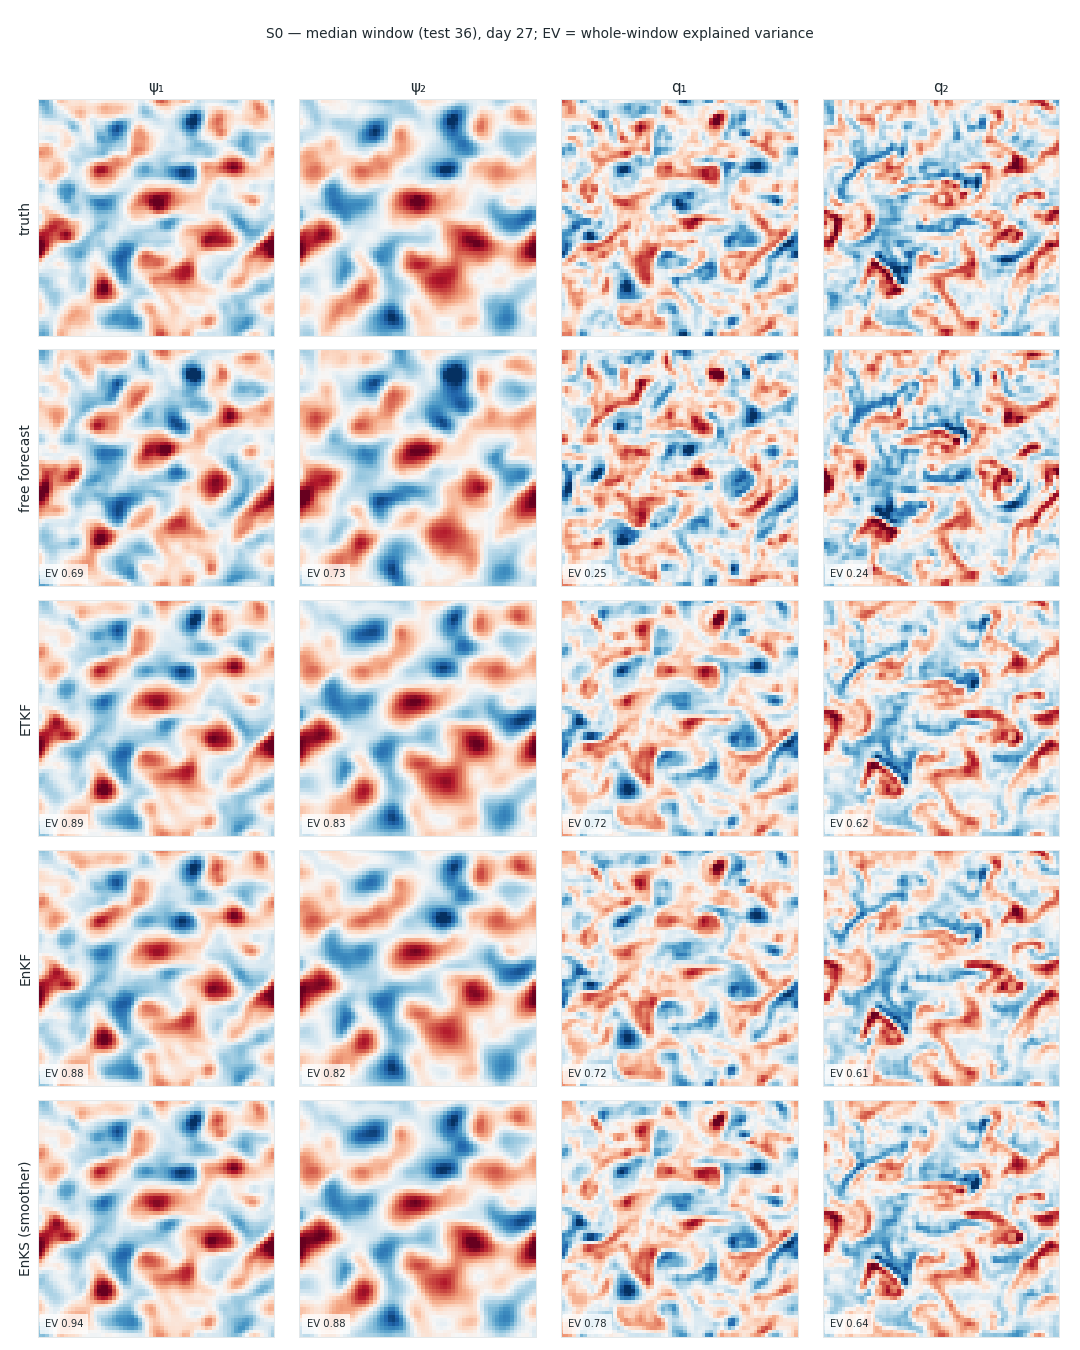
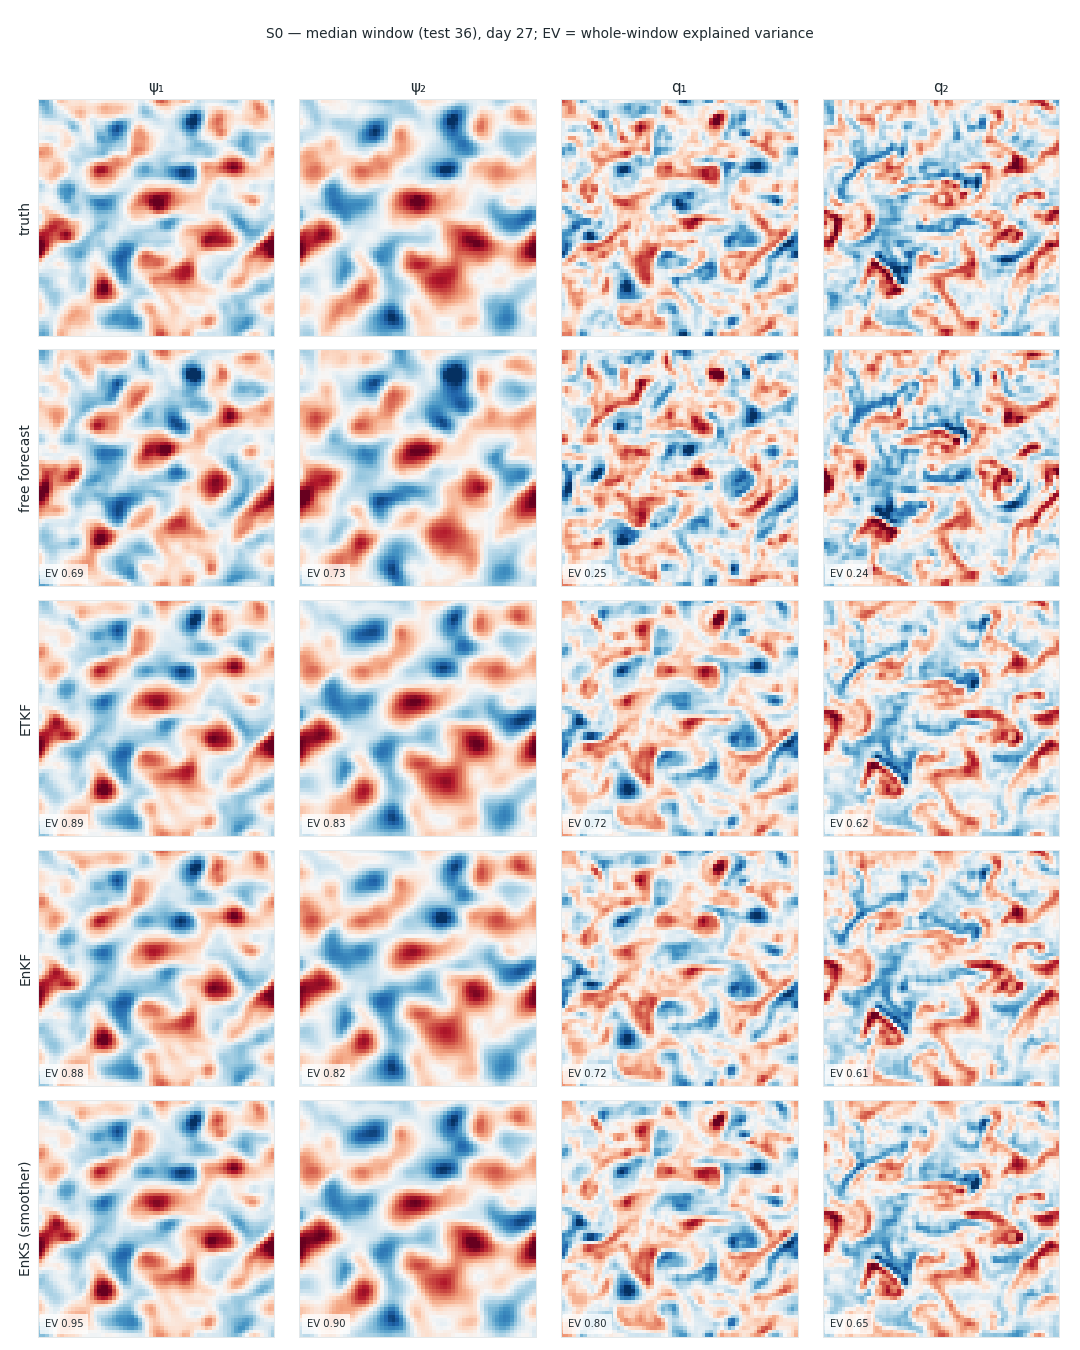
feat(qg): EnKS time taper (tau = 8 d, no lag) as the benchmark smoother; CRPS + spread columns
Test: S0 0.812/0.819 (lag 12: 0.804/0.813), S1 S0-tuned 0.612/0.620 (0.602/0.610),
S1-tuned 0.665/0.673 (0.664/0.672); CRPS better in all six.

diff --git a/evaluation/run_qg_specwind_da.py b/evaluation/run_qg_specwind_da.py
@@ -187,13 +187,14 @@ def main() -> None:
     p.add_argument("--init-ensemble", default="bred", choices=("white", "bred"))
     p.add_argument("--breed-days", type=float, default=3.0)
     p.add_argument("--disp-frac", type=float, default=1.0)
-    p.add_argument("--enks-taper-days", type=float, default=None,
-                   help="EnKS time taper width in days (Gaspari-Cohn, zero beyond twice it)")
+    p.add_argument("--enks-taper-days", type=float, default=8.0,
+                   help="EnKS time taper width in days (Gaspari-Cohn, zero beyond twice it; val-tuned 8; "
+                        "<= 0 disables it)")
     p.add_argument("--r-scale", type=float, default=1.0,
                    help="multiply the filter's observation-error variance (absorbs model error)")
-    p.add_argument("--enks-lag", type=int, default=12,
-                   help="EnKS lag in analyses (val-tuned default 12 = 4 days at 3 columns per day; "
-                        "0 = the whole window)")
+    p.add_argument("--enks-lag", type=int, default=0,
+                   help="EnKS hard lag in analyses (0 = none; the benchmark uses the time taper instead, "
+                        "which beat lag 12 on val)")
     p.add_argument("--etkf-loc-mode", default="ensrf", choices=("square_root", "ensrf"),
                    help="localized ETKF update: legacy square_root, or the exact EnSRF (ensrf)")
     p.add_argument("--s1-kappa", type=float, default=0.0,
@@ -240,7 +241,8 @@ def main() -> None:
         loc_cross_layer=args.loc_cross_layer, init_ensemble=args.init_ensemble,
         breed_days=args.breed_days, disp_frac=args.disp_frac, init_lag_days=args.init_lag_days,
         out_path=args.out, save_traj=args.save_traj, etkf_loc_mode=args.etkf_loc_mode,
-        enks_lag=args.enks_lag or None, r_scale=args.r_scale, enks_taper_days=args.enks_taper_days)
+        enks_lag=args.enks_lag or None, r_scale=args.r_scale,
+        enks_taper_days=args.enks_taper_days if args.enks_taper_days and args.enks_taper_days > 0 else None)
     meta = {"spec": spec.name, "split": args.split, "indices": idx, "method": args.method,
             "cols_per_day": args.cols_per_day, "obs_noise_frac": args.obs_noise_frac,
             "init_lag_days": args.init_lag_days, "N": args.N, "inflation": args.inflation,

diff --git a/reports/qg/generate_qg_specwind_da_report.py b/reports/qg/generate_qg_specwind_da_report.py
@@ -33,8 +33,8 @@ METHODS = ("etkf", "enkf", "enks")
 S0 = "S0"
 ETKF_MODE = "ensrf"
 S1_TUNED_R = 6.0
-ENKS_LAG = 12
-ENKS_TAPER = None
+ENKS_LAG = None
+ENKS_TAPER = 8.0
 
 
 def load_runs(root: str) -> list[dict]:
@@ -129,8 +129,8 @@ def scenario_table(runs: list[dict], spec: str, cols: int, s1: str, r_scale: flo
         ci = _boot_mean(_values(r, "da", "score"))
         lag = ""
         if method == "enks":
-            lag = f", lag {r['lag'] if r['lag'] is not None else 'whole window'}"
-            lag += f", taper {r['taper']:g} d" if r["taper"] is not None else ""
+            lag = f", lag {r['lag']}" if r["lag"] else (", no lag cutoff" if r["taper"] else ", whole window")
+            lag += f", time taper {r['taper']:g} d" if r["taper"] is not None else ""
         crps = float(np.mean([w["crps"] for w in r["per_window"]])) * 1e6
         spread = [w["spread_ratio_q1"] for w in r["per_window"] if "spread_ratio_q1" in w]
         rows.append((f"{METHOD_NAME[method]} (radius {r['loc']:g}{lag})", vals,

diff --git a/reports/qg/generate_qg_specwind_da_figs.py b/reports/qg/generate_qg_specwind_da_figs.py
@@ -54,7 +54,7 @@ S1_VARIANT = "base"
 METHODS = (("ETKF", "etkf", {"loc_radius": 8.0, "etkf_ridge": 0.1, "etkf_loc_mode": "ensrf"}),
            ("EnKF", "enkf", {"loc_radius": 6.0, "etkf_ridge": 0.1}),
            ("EnKS (smoother)", "enks", {"loc_radius": 8.0, "etkf_ridge": 0.1, "etkf_loc_mode": "ensrf",
-                                        "enks_lag": 12}))
+                                        "enks_lag": None, "enks_taper_days": 8.0}))
 LABEL = {"psi1": "ψ₁", "psi2": "ψ₂", "q1": "q₁", "q2": "q₂"}
 CMAP = "RdBu_r"
 INK, MUTED, GRID = "#1f2a30", "#5b6b72", "#e3e8ea"

diff --git a/reports/qg/outputs/qg_specwind_da_report.md b/reports/qg/outputs/qg_specwind_da_report.md
@@ -20,45 +20,45 @@ The gyrostat drives domain-scale wind-stress-curl patterns with regime changes; 
 
 **Forced dataset**
 
-| method | ψ₁ | ψ₂ | q₁ | q₂ | score | score 95% CI |
-|---|---|---|---|---|---|---|
-| _free forecast_ | 0.759 | 0.848 | -0.057 | 0.043 | 0.398 |  |
-| ETKF (radius 8) | *0.937* | *0.933* | *0.647* | *0.578* | *0.774* | [0.762, 0.786] |
-| EnKF (radius 6) | 0.929 | 0.918 | 0.635 | 0.562 | 0.761 | [0.749, 0.773] |
-| EnKS (ETKF smoother) (radius 8, lag 12) | **0.961** | **0.948** | **0.717** | **0.588** | **0.804** | [0.793, 0.815] |
+| method | ψ₁ | ψ₂ | q₁ | q₂ | score | score 95% CI | CRPS q (×10⁻⁶, lower is better) | spread/RMSE q₁ |
+|---|---|---|---|---|---|---|---|---|
+| _free forecast_ | 0.759 | 0.848 | -0.057 | 0.043 | 0.398 |  |  |  |
+| ETKF (radius 8) | *0.937* | *0.933* | *0.647* | *0.578* | *0.774* | [0.762, 0.786] | *5.875* | 0.72 |
+| EnKF (radius 6) | 0.929 | 0.918 | 0.635 | 0.562 | 0.761 | [0.749, 0.773] | 6.016 | — |
+| EnKS (ETKF smoother) (radius 8, no lag cutoff, time taper 8 d) | **0.966** | **0.959** | **0.727** | **0.596** | **0.812** | [0.801, 0.823] | **5.315** | 0.67 |
 
 **Coupled dataset**
 
-| method | ψ₁ | ψ₂ | q₁ | q₂ | score | score 95% CI |
-|---|---|---|---|---|---|---|
-| _free forecast_ | 0.745 | 0.838 | -0.044 | 0.068 | 0.402 |  |
-| ETKF (radius 8) | *0.936* | *0.933* | *0.651* | *0.595* | *0.779* | [0.767, 0.791] |
-| EnKF (radius 6) | 0.929 | 0.919 | 0.643 | 0.580 | 0.768 | [0.755, 0.780] |
-| EnKS (ETKF smoother) (radius 8, lag 12) | **0.962** | **0.951** | **0.726** | **0.611** | **0.813** | [0.802, 0.823] |
+| method | ψ₁ | ψ₂ | q₁ | q₂ | score | score 95% CI | CRPS q (×10⁻⁶, lower is better) | spread/RMSE q₁ |
+|---|---|---|---|---|---|---|---|---|
+| _free forecast_ | 0.745 | 0.838 | -0.044 | 0.068 | 0.402 |  |  |  |
+| ETKF (radius 8) | *0.936* | *0.933* | *0.651* | *0.595* | *0.779* | [0.767, 0.791] | *5.735* | 0.73 |
+| EnKF (radius 6) | 0.929 | 0.919 | 0.643 | 0.580 | 0.768 | [0.755, 0.780] | 5.847 | — |
+| EnKS (ETKF smoother) (radius 8, no lag cutoff, time taper 8 d) | **0.967** | **0.959** | **0.734** | **0.615** | **0.819** | [0.808, 0.830] | **5.155** | 0.67 |
 
-(Best per column **bolded**, second-best *italicized*, among the DA methods; the free forecast is a reference row. The EnKS is the localized ensemble Kalman smoother on the ETKF: it also uses observations after each time, so it is a reanalysis-type estimate, not a filter.)
+(Best per column **bolded**, second-best *italicized*, among the DA methods; the free forecast is a reference row; CRPS is ranked lowest-best; spread/RMSE q₁ (median over windows) is not ranked: 1 is calibrated. The EnKS is the localized ensemble Kalman smoother on the ETKF: it also uses observations after each time, so it is a reanalysis-type estimate, not a filter.)
 
 ## 3. DA baselines — S1 (realistic base), 3 columns per day
 
 **Forced dataset**
 
-| method | ψ₁ | ψ₂ | q₁ | q₂ | score | score 95% CI |
-|---|---|---|---|---|---|---|
-| _free forecast_ | 0.127 | -0.934 | -0.254 | -0.363 | -0.356 |  |
-| ETKF (radius 8) | *0.848* | *0.757* | 0.433 | 0.277 | 0.579 | [0.560, 0.598] |
-| EnKF (radius 6) | 0.847 | **0.762** | *0.450* | **0.326** | *0.596* | [0.578, 0.615] |
-| EnKS (ETKF smoother) (radius 8, lag 12) | **0.872** | 0.741 | **0.504** | *0.290* | **0.602** | [0.581, 0.621] |
+| method | ψ₁ | ψ₂ | q₁ | q₂ | score | score 95% CI | CRPS q (×10⁻⁶, lower is better) | spread/RMSE q₁ |
+|---|---|---|---|---|---|---|---|---|
+| _free forecast_ | 0.127 | -0.934 | -0.254 | -0.363 | -0.356 |  |  |  |
+| ETKF (radius 8) | *0.848* | *0.757* | 0.433 | 0.277 | 0.579 | [0.560, 0.598] | 7.880 | 0.70 |
+| EnKF (radius 6) | 0.847 | **0.762** | *0.450* | **0.326** | *0.596* | [0.578, 0.615] | *7.711* | — |
+| EnKS (ETKF smoother) (radius 8, no lag cutoff, time taper 8 d) | **0.881** | 0.738 | **0.522** | *0.309* | **0.612** | [0.590, 0.633] | **7.437** | 0.63 |
 
 **Coupled dataset**
 
-| method | ψ₁ | ψ₂ | q₁ | q₂ | score | score 95% CI |
-|---|---|---|---|---|---|---|
-| _free forecast_ | 0.113 | -0.914 | -0.260 | -0.352 | -0.353 |  |
-| ETKF (radius 8) | *0.848* | *0.766* | 0.437 | 0.295 | 0.586 | [0.568, 0.605] |
-| EnKF (radius 6) | 0.847 | **0.771** | *0.454* | **0.343** | *0.604* | [0.586, 0.622] |
-| EnKS (ETKF smoother) (radius 8, lag 12) | **0.872** | 0.746 | **0.512** | *0.311* | **0.610** | [0.590, 0.630] |
+| method | ψ₁ | ψ₂ | q₁ | q₂ | score | score 95% CI | CRPS q (×10⁻⁶, lower is better) | spread/RMSE q₁ |
+|---|---|---|---|---|---|---|---|---|
+| _free forecast_ | 0.113 | -0.914 | -0.260 | -0.352 | -0.353 |  |  |  |
+| ETKF (radius 8) | *0.848* | *0.766* | 0.437 | 0.295 | 0.586 | [0.568, 0.605] | 7.733 | 0.70 |
+| EnKF (radius 6) | 0.847 | **0.771** | *0.454* | **0.343** | *0.604* | [0.586, 0.622] | *7.575* | — |
+| EnKS (ETKF smoother) (radius 8, no lag cutoff, time taper 8 d) | **0.880** | 0.741 | **0.530** | *0.330* | **0.620** | [0.598, 0.641] | **7.270** | 0.63 |
 
-(Best per column **bolded**, second-best *italicized*, among the DA methods; the free forecast is a reference row. The EnKS is the localized ensemble Kalman smoother on the ETKF: it also uses observations after each time, so it is a reanalysis-type estimate, not a filter.)
+(Best per column **bolded**, second-best *italicized*, among the DA methods; the free forecast is a reference row; CRPS is ranked lowest-best; spread/RMSE q₁ (median over windows) is not ranked: 1 is calibrated. The EnKS is the localized ensemble Kalman smoother on the ETKF: it also uses observations after each time, so it is a reanalysis-type estimate, not a filter.)
 
 ### S1-tuned filters (observation-error variance × 6), 3 columns per day
 
@@ -66,21 +66,21 @@ Same S1, with the filters' R scaled on val to absorb the model error (`docs/resu
 
 **Forced dataset**
 
-| method | ψ₁ | ψ₂ | q₁ | q₂ | score | score 95% CI |
-|---|---|---|---|---|---|---|
-| _free forecast_ | 0.127 | -0.934 | -0.254 | -0.363 | -0.356 |  |
-| ETKF (radius 8) | *0.865* | 0.791 | *0.473* | 0.402 | 0.633 | [0.615, 0.650] |
-| EnKF (radius 6) | 0.861 | *0.798* | 0.468 | *0.409* | *0.634* | [0.617, 0.650] |
-| EnKS (ETKF smoother) (radius 8, lag 12) | **0.891** | **0.800** | **0.537** | **0.429** | **0.664** | [0.648, 0.680] |
+| method | ψ₁ | ψ₂ | q₁ | q₂ | score | score 95% CI | CRPS q (×10⁻⁶, lower is better) | spread/RMSE q₁ |
+|---|---|---|---|---|---|---|---|---|
+| _free forecast_ | 0.127 | -0.934 | -0.254 | -0.363 | -0.356 |  |  |  |
+| ETKF (radius 8) | *0.865* | *0.791* | *0.473* | 0.402 | 0.633 | [0.615, 0.650] | *7.364* | 0.87 |
+| EnKF (radius 6) | 0.861 | **0.798** | 0.468 | *0.409* | *0.634* | [0.617, 0.650] | 7.394 | 0.86 |
+| EnKS (ETKF smoother) (radius 8, no lag cutoff, time taper 8 d) | **0.894** | 0.783 | **0.547** | **0.437** | **0.665** | [0.646, 0.683] | **6.935** | 0.84 |
 
 **Coupled dataset**
 
-| method | ψ₁ | ψ₂ | q₁ | q₂ | score | score 95% CI |
-|---|---|---|---|---|---|---|
-| _free forecast_ | 0.113 | -0.914 | -0.260 | -0.352 | -0.353 |  |
-| ETKF (radius 8) | *0.865* | 0.799 | *0.481* | 0.421 | *0.642* | [0.624, 0.659] |
-| EnKF (radius 6) | 0.860 | **0.805** | 0.474 | *0.428* | *0.642* | [0.626, 0.658] |
-| EnKS (ETKF smoother) (radius 8, lag 12) | **0.891** | *0.804* | **0.545** | **0.448** | **0.672** | [0.655, 0.688] |
+| method | ψ₁ | ψ₂ | q₁ | q₂ | score | score 95% CI | CRPS q (×10⁻⁶, lower is better) | spread/RMSE q₁ |
+|---|---|---|---|---|---|---|---|---|
+| _free forecast_ | 0.113 | -0.914 | -0.260 | -0.352 | -0.353 |  |  |  |
+| ETKF (radius 8) | *0.865* | *0.799* | *0.481* | 0.421 | *0.642* | [0.624, 0.659] | *7.204* | 0.88 |
+| EnKF (radius 6) | 0.860 | **0.805** | 0.474 | *0.428* | *0.642* | [0.626, 0.658] | 7.243 | 0.86 |
+| EnKS (ETKF smoother) (radius 8, no lag cutoff, time taper 8 d) | **0.893** | 0.786 | **0.556** | **0.456** | **0.673** | [0.653, 0.691] | **6.774** | 0.84 |
 
 ![S0 vs S1 per field](figs/qg_specwind_da_s0_s1.png)
 
@@ -121,19 +121,19 @@ Both filters were tuned on val (`docs/results/qg_specwind_da2_val_tuning.md`): v
 
 *forced*
 
-| method | ψ₁ | ψ₂ | q₁ | q₂ | score | score 95% CI |
-|---|---|---|---|---|---|---|
-| _free forecast_ | 0.759 | 0.848 | -0.057 | 0.043 | 0.398 |  |
-| ETKF (radius 8) | **0.950** | **0.943** | **0.695** | **0.589** | **0.794** | [0.783, 0.805] |
-| EnKF (radius 6) | *0.945* | *0.932* | *0.688* | *0.580* | *0.786* | [0.775, 0.798] |
+| method | ψ₁ | ψ₂ | q₁ | q₂ | score | score 95% CI | CRPS q (×10⁻⁶, lower is better) | spread/RMSE q₁ |
+|---|---|---|---|---|---|---|---|---|
+| _free forecast_ | 0.759 | 0.848 | -0.057 | 0.043 | 0.398 |  |  |  |
+| ETKF (radius 8) | **0.950** | **0.943** | **0.695** | **0.589** | **0.794** | [0.783, 0.805] | **5.477** | 0.66 |
+| EnKF (radius 6) | *0.945* | *0.932* | *0.688* | *0.580* | *0.786* | [0.775, 0.798] | *5.590* | — |
 
 *coupled*
 
-| method | ψ₁ | ψ₂ | q₁ | q₂ | score | score 95% CI |
-|---|---|---|---|---|---|---|
-| _free forecast_ | 0.745 | 0.838 | -0.044 | 0.068 | 0.402 |  |
-| ETKF (radius 8) | **0.951** | **0.945** | **0.702** | **0.610** | **0.802** | [0.791, 0.813] |
-| EnKF (radius 6) | *0.945* | *0.933* | *0.695* | *0.598* | *0.793* | [0.782, 0.804] |
+| method | ψ₁ | ψ₂ | q₁ | q₂ | score | score 95% CI | CRPS q (×10⁻⁶, lower is better) | spread/RMSE q₁ |
+|---|---|---|---|---|---|---|---|---|
+| _free forecast_ | 0.745 | 0.838 | -0.044 | 0.068 | 0.402 |  |  |  |
+| ETKF (radius 8) | **0.951** | **0.945** | **0.702** | **0.610** | **0.802** | [0.791, 0.813] | **5.303** | 0.67 |
+| EnKF (radius 6) | *0.945* | *0.933* | *0.695* | *0.598* | *0.793* | [0.782, 0.804] | *5.425* | — |
 
 ## 6. Forced vs coupled
 
@@ -153,11 +153,11 @@ Independent samples (paired windows share seeds but not trajectories), two-sampl
 | EnKF | q₁ | 0.635 | 0.643 | -0.009 [-0.039, +0.023] |
 | EnKF | q₂ | 0.562 | 0.580 | -0.019 [-0.060, +0.022] |
 | EnKF | score | 0.761 | 0.768 | -0.007 [-0.025, +0.010] |
-| EnKS (ETKF smoother) | ψ₁ | 0.961 | 0.962 | -0.001 [-0.008, +0.007] |
-| EnKS (ETKF smoother) | ψ₂ | 0.948 | 0.951 | -0.003 [-0.018, +0.012] |
-| EnKS (ETKF smoother) | q₁ | 0.717 | 0.726 | -0.010 [-0.035, +0.016] |
-| EnKS (ETKF smoother) | q₂ | 0.588 | 0.611 | -0.022 [-0.064, +0.018] |
-| EnKS (ETKF smoother) | score | 0.804 | 0.813 | -0.009 [-0.024, +0.006] |
+| EnKS (ETKF smoother) | ψ₁ | 0.966 | 0.967 | -0.000 [-0.007, +0.006] |
+| EnKS (ETKF smoother) | ψ₂ | 0.959 | 0.959 | -0.001 [-0.013, +0.011] |
+| EnKS (ETKF smoother) | q₁ | 0.727 | 0.734 | -0.007 [-0.033, +0.019] |
+| EnKS (ETKF smoother) | q₂ | 0.596 | 0.615 | -0.019 [-0.060, +0.022] |
+| EnKS (ETKF smoother) | score | 0.812 | 0.819 | -0.007 [-0.022, +0.009] |
 
 **S1 (realistic base)**
 
@@ -173,11 +173,11 @@ Independent samples (paired windows share seeds but not trajectories), two-sampl
 | EnKF | q₁ | 0.450 | 0.454 | -0.004 [-0.030, +0.023] |
 | EnKF | q₂ | 0.326 | 0.343 | -0.017 [-0.052, +0.017] |
 | EnKF | score | 0.596 | 0.604 | -0.007 [-0.033, +0.018] |
-| EnKS (ETKF smoother) | ψ₁ | 0.872 | 0.872 | -0.000 [-0.025, +0.024] |
-| EnKS (ETKF smoother) | ψ₂ | 0.741 | 0.746 | -0.005 [-0.105, +0.096] |
-| EnKS (ETKF smoother) | q₁ | 0.504 | 0.512 | -0.008 [-0.036, +0.020] |
-| EnKS (ETKF smoother) | q₂ | 0.290 | 0.311 | -0.021 [-0.059, +0.016] |
-| EnKS (ETKF smoother) | score | 0.602 | 0.610 | -0.009 [-0.037, +0.020] |
+| EnKS (ETKF smoother) | ψ₁ | 0.881 | 0.880 | +0.000 [-0.024, +0.024] |
+| EnKS (ETKF smoother) | ψ₂ | 0.738 | 0.741 | -0.004 [-0.118, +0.110] |
+| EnKS (ETKF smoother) | q₁ | 0.522 | 0.530 | -0.008 [-0.035, +0.021] |
+| EnKS (ETKF smoother) | q₂ | 0.309 | 0.330 | -0.021 [-0.058, +0.016] |
+| EnKS (ETKF smoother) | score | 0.612 | 0.620 | -0.008 [-0.038, +0.023] |
 
 ## 7. Factor strata (forced, ETKF, 3 columns per day)
 

diff --git a/docs/results/qg_specwind_enks.md b/docs/results/qg_specwind_enks.md
@@ -1,6 +1,7 @@
 # Localized EnKS on the QG gyrostat benchmark (smoother vs filter)
 
-**Status:** RESULTS (2026-09-29). A localized ensemble Kalman smoother (EnKS)
+**Status:** RESULTS (2026-09-29; time taper added 2026-09-30, §"Time taper" —
+the benchmark EnKS is now **no lag cutoff, time taper τ = 8 days**). A localized ensemble Kalman smoother (EnKS)
 on the benchmark ETKF, the counterpart for the localized QG setting of the
 L96 ETKS (`docs/results/l96_etks_benchmark.md`). The L96 ETKS works in
 ensemble space on the unlocalized ETKF, so it does not apply here.
@@ -110,13 +111,58 @@ Paired differences (bootstrap 95%), forced / coupled:
 - **Spread/RMSE in q₁ (median)** falls from 0.72 to 0.68 in S0 and from 0.70
   to 0.64 in S1: the smoother is more under-dispersed than the filter.
 
+## Time taper (2026-09-30)
+
+A hard lag lets every analysis within it act at full strength and drops the
+rest abruptly. The time taper (`EnKS(taper_steps=...)`, `--enks-taper-days`)
+instead multiplies the cross-covariance of state s with analysis k by the
+Gaspari–Cohn weight GC((t_k − s)/τ), which is 1 at t_k and 0 from 2τ on.
+Both the mean and the anomaly updates scale with it. A test checks that a
+very wide τ reproduces the untapered smoother.
+
+**Val sweep** (`evaluation/qg_specwind_enks_tuning.py`, SLURM 57338, 20
+windows). S1 uses the S1-tuned R × 6 (`docs/results/qg_specwind_s1_tuning.md`).
+
+| | S0 | S1-tuned (R × 6) |
+|---|---|---|
+| lag 12 (previous benchmark) | 0.798 | 0.673 |
+| lag 24 | 0.802 (+0.004) | 0.658 (−0.014) |
+| whole window, no taper | — | 0.632 (−0.040) |
+| taper τ = 2 d, no lag | 0.787 (−0.010) | 0.671 (−0.001) |
+| taper τ = 4 d | 0.799 (+0.001) | **0.682** (+0.009 [+0.004, +0.017]) |
+| **taper τ = 8 d** | **0.806** (+0.008 [+0.006, +0.010]) | *0.679* (+0.007 [+0.004, +0.010]) |
+| taper τ = 16 d | *0.805* (+0.007) | 0.662 (−0.011) |
+
+- **Longer hard lags still hurt under S1, even at the tuned R × 6.** The
+  unobserved ψ₂ degrades: 0.745 over the whole window, against 0.873 at lag
+  12.
+- **Selected: τ = 8 days, no lag cutoff.** It is best in S0, within noise of
+  τ = 4 d in S1, and it has the best CRPS in both. One setting serves both
+  scenarios and replaces the lag hyperparameter.
+
+**Test** (100 windows, forced / coupled; paired taper − lag 12):
+
+| | lag 12 | **taper τ = 8 d** | taper − lag 12 | CRPS q (×10⁻⁶), lag 12 → taper |
+|---|---|---|---|---|
+| S0 | 0.804 / 0.813 | **0.812 / 0.819** | +0.009 [+0.008, +0.010] / +0.006 [+0.004, +0.008] | 5.39 → 5.32 / 5.20 → 5.16 |
+| S1, S0-tuned filters | 0.602 / 0.610 | **0.612 / 0.620** | +0.011 [+0.006, +0.015] / +0.010 [+0.006, +0.014] | 7.56 → 7.44 / 7.38 → 7.27 |
+| S1-tuned (R × 6) | 0.664 / 0.672 | 0.665 / 0.673 | +0.001 [−0.004, +0.004] / +0.001 [−0.004, +0.005] | 6.99 → 6.94 / 6.83 → 6.77 |
+
+- **The taper is better than lag 12 or tied everywhere**, and its CRPS is
+  better in all six cases.
+- **In S1-tuned it ties on the score**, with slightly lower ψ₂ (−0.017 /
+  −0.018) offset by q gains.
+- **Its margin over the ETKF filter** is +0.039 / +0.040 in S0, +0.034 in S1
+  S0-tuned and +0.032 / +0.031 in S1-tuned.
+
 ## Caveats
 
 - **The EnKS is a smoother.** It uses observations after each time, so it is
   a reanalysis-type estimate. It is reported next to the filters, not
   instead of them.
-- **Same localization as the analysis.** Each analysis's state–observation
-  localization is reused for the earlier states, as is standard for a
-  localized EnKS. A time-dependent localization, tapering with lag, could
-  make longer lags safe under model error.
+- **Same spatial localization as the analysis.** Each analysis's
+  state–observation localization is reused for the earlier states. The time
+  taper (above) now limits how far back it acts. A taper width that depends
+  on the scenario, or grows with the model's error-growth time scale, was
+  not tried.
 - **Lag tuned on 20 val windows at one density.**

diff --git a/CHANGELOG.d/2026-09-30-qg-enks-taper.md b/CHANGELOG.d/2026-09-30-qg-enks-taper.md
@@ -1,0 +1,42 @@
+## 2026-09-30: QG EnKS time taper (τ = 8 days) replaces the hard lag; CRPS and spread columns in the report
+
+**Summary:**
+- **E1:** re-tuning the lag at the S1-tuned R × 6 (val) keeps lag 12 as the
+  best hard lag. Lag 24 costs −0.014 and the whole window −0.040; the
+  unobserved ψ₂ degrades.
+- **E2:** a time taper is added to the localized EnKS:
+  `EnKS(taper_steps)`, `run(enks_taper_steps)`, `--enks-taper-days`,
+  sbatch `ENKSTAPER`. It is Gaspari–Cohn in time, zero beyond 2τ. On val,
+  τ = 8 days with no lag cutoff beats lag 12 in S0 (+0.008) and S1-tuned
+  (+0.007) and has the best CRPS in both.
+- **E4:** it is now the benchmark EnKS. Test, taper − lag 12:
+  - S0: +0.009 / +0.006 (0.812 / 0.819);
+  - S1 with S0-tuned filters: +0.011 / +0.010 (0.612 / 0.620);
+  - S1-tuned: a tie (0.665 / 0.673);
+  - CRPS is better in all six cases.
+- **E3:** the report's scenario tables gain CRPS (q, lowest-best, ranked)
+  and median spread/RMSE q₁ columns. The EnKS has the best CRPS everywhere.
+
+**Files modified:**
+- `evaluation/baselines.py`: `_enks_smooth_localized(taper_steps)`,
+  `EnKS(taper_steps)`.
+- `evaluation/run_qg_baselines.py`, `evaluation/run_qg_specwind_da.py`:
+  EnKS defaults are taper 8 d with no lag.
+- `batch/run_qg_specwind_da.sbatch`.
+- new `evaluation/qg_specwind_enks_tuning.py` and
+  `batch/run_qg_specwind_enks_tuning.sbatch`.
+- `reports/qg/generate_qg_specwind_da_report.py`: EnKS selection by
+  lag/taper; CRPS and spread columns.
+- `reports/qg/generate_qg_specwind_da_figs.py`; regenerated report and
+  figures.
+- `tests/test_enks_localized.py` (+1 test).
+- `docs/results/qg_specwind_enks.md`,
+  `docs/results/qg_specwind_da_s0_s1_test.md`,
+  `docs/results/qg_specwind_s1_tuning.md`.
+
+**Rationale:** E1–E4 of the smoother plan approved on 2026-09-30.
+
+**Verification:**
+- SLURM 57338 (val) and 57359–57362 and 57374–57375 (test): all completed.
+- `pytest -m "not slow"` on the EnKS, specwind DA, S1 and docs/report tests;
+  `ruff check` on the touched files.

diff --git a/docs/results/qg_specwind_da_s0_s1_test.md b/docs/results/qg_specwind_da_s0_s1_test.md
@@ -128,9 +128,11 @@ ETKF).
 
 ## 3b. Smoother (localized EnKS)
 
-The localized EnKS on this ETKF (lag 12 analyses = 4 days) gains about +0.03
-over the filter in S0 (0.804 / 0.813) and about +0.02 in S1 (0.602 / 0.610).
-In S1 it ties the EnKF. Details: `docs/results/qg_specwind_enks.md`.
+The localized EnKS on this ETKF gains about +0.04 over the filter in S0
+(0.812 / 0.819) and about +0.03 in S1 (0.612 / 0.620); in S1 it also beats
+the EnKF. It uses a time taper of τ = 8 days with no lag cutoff, which
+replaced the earlier lag of 12 analyses (0.804 / 0.813 and 0.602 / 0.610).
+Details: `docs/results/qg_specwind_enks.md`.
 
 ## 3c. S1-tuned filters
 
@@ -139,7 +141,7 @@ error absorbed as observation error; inflation > 1 diverges), S1 test scores
 rise to:
 - ETKF 0.633 / 0.642;
 - EnKF 0.634 / 0.642 (a tie with the ETKF);
-- EnKS 0.664 / 0.672.
+- EnKS 0.665 / 0.673 with the τ = 8-day taper (0.664 / 0.672 with lag 12).
 
 Details: `docs/results/qg_specwind_s1_tuning.md`.
 

diff --git a/docs/results/qg_specwind_s1_tuning.md b/docs/results/qg_specwind_s1_tuning.md
@@ -104,7 +104,9 @@ S1 (realistic base), 3 columns per day; forced / coupled:
   [−0.004, +0.002] / −0.000 [−0.004, +0.003]. On val the ETKF led by 0.005.
 - **The EnKS leads the S1-tuned filters** by +0.031 [+0.026, +0.036] /
   +0.030 [+0.025, +0.035], mostly in q₁ (0.537 / 0.545 against 0.473 /
-  0.481 for the ETKF).
+  0.481 for the ETKF). These are lag-12 numbers. With the later τ = 8-day
+  time taper (`docs/results/qg_specwind_enks.md`) the EnKS scores 0.665 /
+  0.673.
 - **Spread is near calibrated** for all three (spread/RMSE 0.84–0.88,
   against 0.64–0.70 S0-tuned).
 
